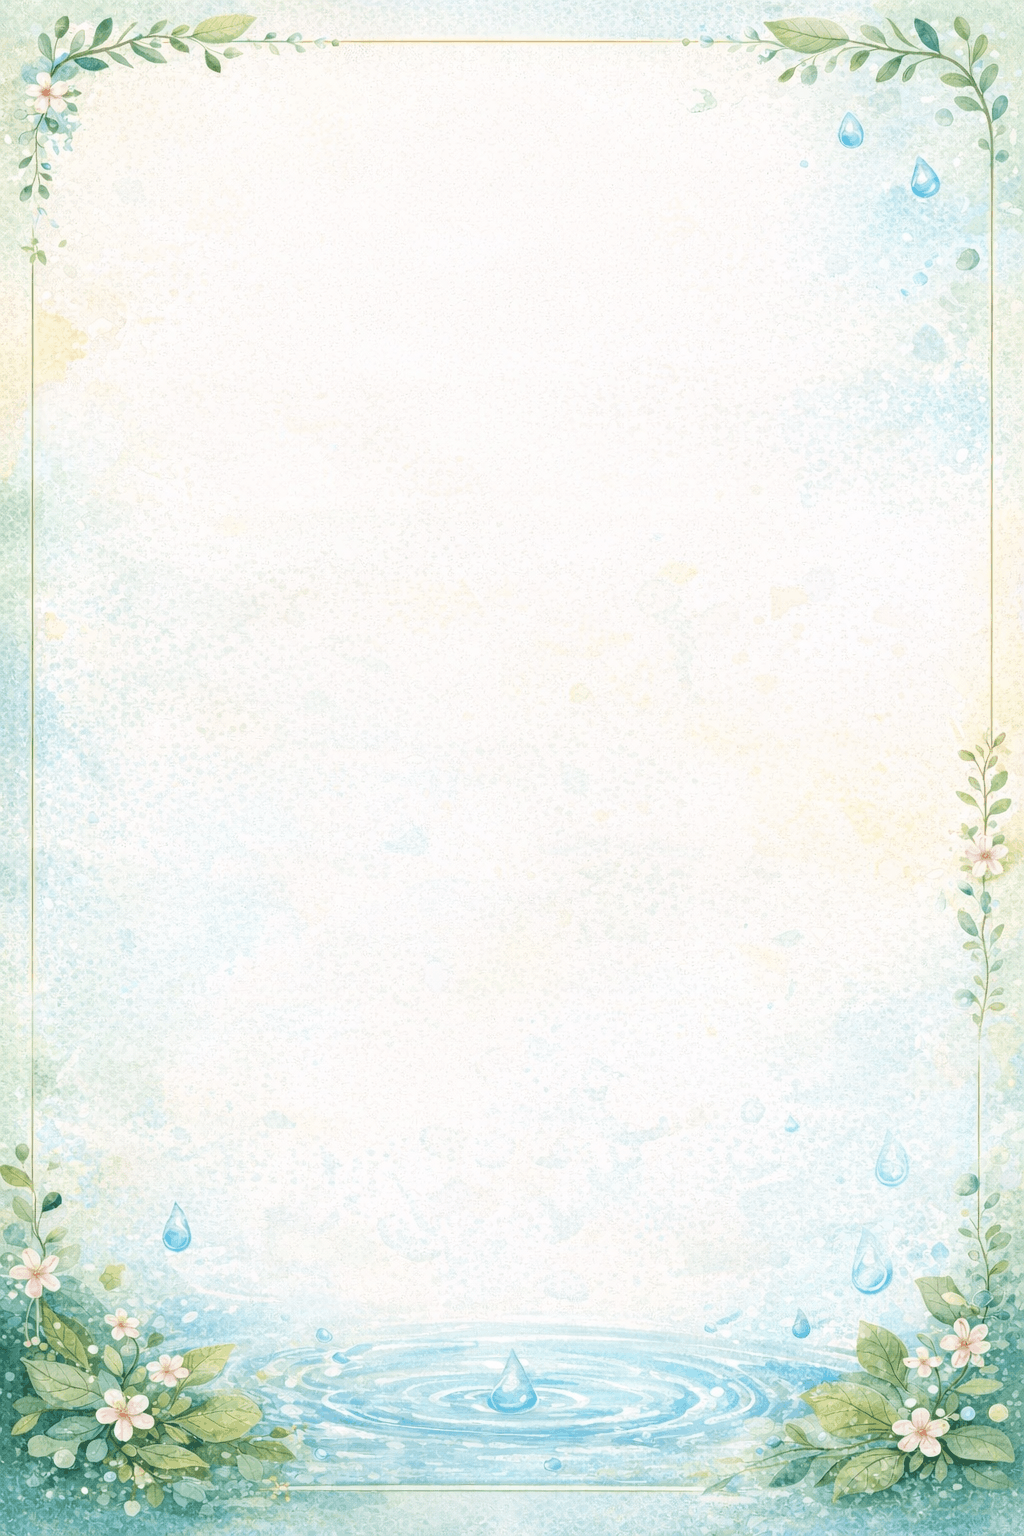
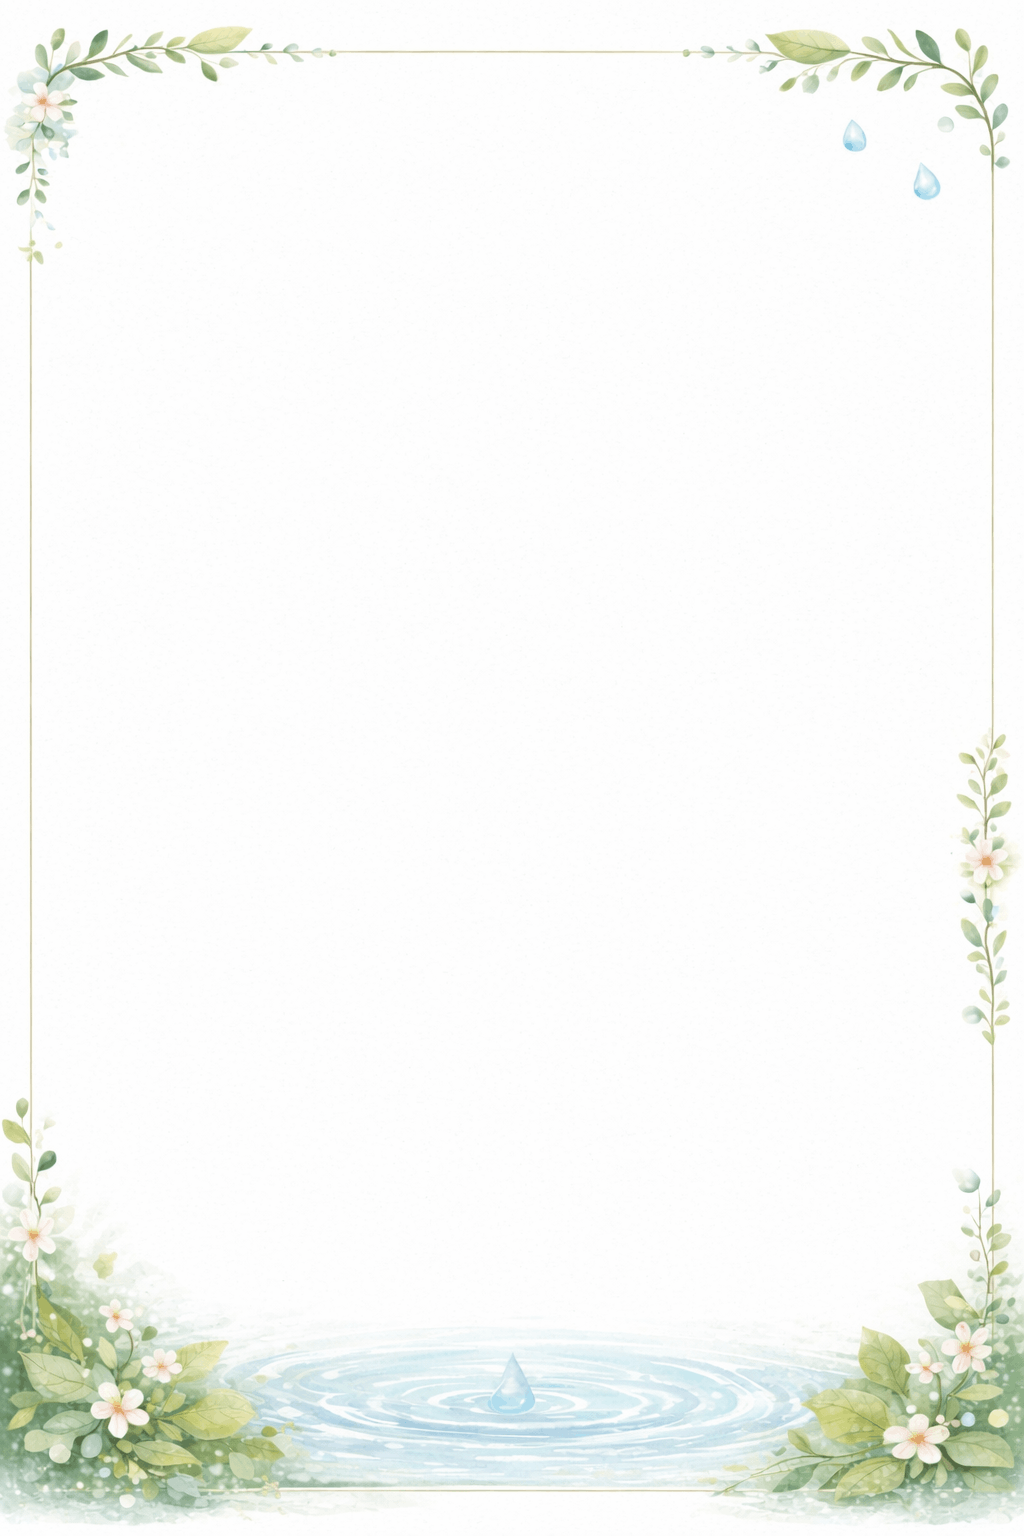
report

Changed region(s): [[0.0, 0.0, 1.0, 1.0], [0.75, 0.7188, 0.7812, 0.75], [0.0938, 0.375, 0.125, 0.4062]]

diff --git a/app/village/watertest/[id]/page.js b/app/village/watertest/[id]/page.js
@@ -230,7 +230,7 @@ const PDFPreviewModal = ({ water, isOpen, onClose }) => {
 								backgroundSize: 'cover',
 								backgroundPosition: 'center',
 								backgroundRepeat: 'no-repeat',
-								padding: '12px',
+								padding: '12px 12px 108px 12px',
 								width: '360px',
 								aspectRatio: '2/3',
 								fontFamily: 'Arial, sans-serif',
@@ -240,6 +240,7 @@ const PDFPreviewModal = ({ water, isOpen, onClose }) => {
 								overflow: 'hidden',
 								display: 'flex',
 								flexDirection: 'column',
+								position: 'relative',
 								boxShadow: '0 4px 6px rgba(0,0,0,0.1)',
 								borderRadius: '8px',
 							}}>
@@ -248,13 +249,13 @@ const PDFPreviewModal = ({ water, isOpen, onClose }) => {
 									display: 'flex',
 									alignItems: 'center',
 									justifyContent: 'center',
-									marginBottom: '12px',
+									marginBottom: '2px',
 								}}>
 								<div
 									style={{
 										flex: '1',
 										marginTop: '20px',
-										paddingBottom: '6px',
+										paddingBottom: '0',
 										display: 'flex',
 										justifyContent: 'center',
 									}}>
@@ -275,7 +276,7 @@ const PDFPreviewModal = ({ water, isOpen, onClose }) => {
 								style={{
 									fontSize: '14px',
 									fontWeight: 'bold',
-									margin: '20px 0 6px 0',
+									margin: '10px 0 6px 0',
 									paddingLeft: '5px',
 									color: '#1e40af',
 								}}>
@@ -284,7 +285,7 @@ const PDFPreviewModal = ({ water, isOpen, onClose }) => {
 
 							<p
 								style={{
-									fontSize: '10px',
+									fontSize: '8px',
 									margin: '0',
 									lineHeight: '1.4',
 									color: '#1f2937',
@@ -594,7 +595,11 @@ const PDFPreviewModal = ({ water, isOpen, onClose }) => {
 										सुझाव
 									</h4>
 									<ul style={{ margin: '0', paddingLeft: '12px' }}>
-										{water.recommendation.map((rec, idx) => (
+										{[
+											water.defaultRecommendation,
+											'फ्लोराइड की कमी कोई भी एंटि केविटी टूथपेस्ट के उपयोग से दूर की जा सकती है।',
+											...water.recommendation,
+										].map((rec, idx) => (
 											<li
 												key={idx}
 												style={{
@@ -611,31 +616,19 @@ const PDFPreviewModal = ({ water, isOpen, onClose }) => {
 
 							<div
 								style={{
-									marginTop: 'auto',
-									paddingTop: '6px',
-									borderTop: '1px solid #1e40af',
+									position: 'absolute',
+									left: '12px',
+									right: '12px',
+									bottom: '48px',
 									textAlign: 'center',
 								}}>
-								<p
-									style={{
-										fontSize: '8px',
-										color: 'red',
-										margin: '0 0 4px 0',
-										fontStyle: 'italic',
-										lineHeight: '1.4',
-										textAlign: 'center',
-									}}>
-									<strong>आग्रह:</strong> ग्राम मे व्याप्त समस्याओ के समाधान एवं
-									ग्राम के भविस्य को बेहतर बनाने के लिए हर महीने तमोहर मिशन की
-									बैठक मे हिस्सा लें
-								</p>
 								<p
 									style={{
 										fontSize: '7px',
 										color: '#666',
 										margin: '0 0 2px 0',
 									}}>
-									तमोहर फाउंडेशन द्वारा जारी रिपोर्ट
+									<b>तमोहर फाउंडेशन फॉर विलेज डेव्लपमेंट</b> द्वारा जारी रिपोर्ट
 								</p>
 								<p style={{ fontSize: '7px', color: '#666', margin: '0' }}>
 									{new Date().toLocaleDateString('hi-IN', {
@@ -643,6 +636,31 @@ const PDFPreviewModal = ({ water, isOpen, onClose }) => {
 										month: 'long',
 										day: 'numeric',
 									})}
+								</p>
+							</div>
+
+							<div
+								style={{
+									position: 'absolute',
+									left: '12px',
+									right: '12px',
+									bottom: '12px',
+									paddingTop: '6px',
+									borderTop: '1px solid #1e40af',
+									textAlign: 'center',
+								}}>
+								<p
+									style={{
+										fontSize: '8px',
+										color: 'cyan',
+										margin: '0 0 4px 0',
+										fontStyle: 'italic',
+										lineHeight: '1.4',
+										textAlign: 'center',
+									}}>
+									<strong>आग्रह:</strong> ग्राम मे व्याप्त समस्याओ के समाधान एवं
+									ग्राम के भविष्य को बेहतर बनाने के लिए हर महीने तमोहर मिशन की
+									बैठक मे अवश्य भाग लें।
 								</p>
 							</div>
 						</div>
